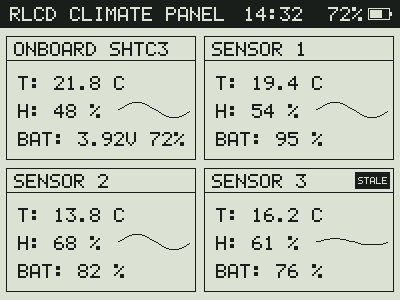
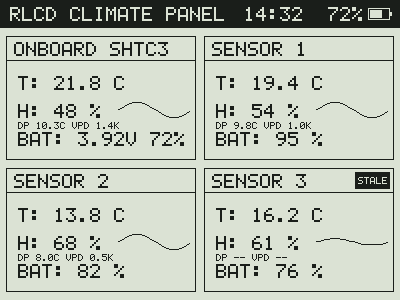
Add dew point and VPD line to climate tiles
Calculate the dew point with the Magnus formula and the vapor
pressure deficit in kPa. Show both values in each of the 4 tiles.
Show "DP -- VPD --" for stale, invalid and NaN readings.

diff --git a/tests/test_firmware_logic.cpp b/tests/test_firmware_logic.cpp
@@ -15,6 +15,7 @@
 #include "../rlcd_panel/bthome_ble.h"
 #include "../rlcd_panel/button_handler.h"
 #include "../rlcd_panel/clap_detector.h"
+#include "../rlcd_panel/climate_math.h"
 #include "../rlcd_panel/dashboard_view.h"
 #include "../rlcd_panel/device_config.h"
 #include "../rlcd_panel/es7210_mic.h"
@@ -627,6 +628,150 @@ void testSwitchBotStaleDetection() {
   assert(!empty.isStale(0xFFFFFFFFu));
 }
 
+void testClimateMathReferencePoints() {
+  const ClimateDerived ref = ClimateMath::compute(20.0f, 50.0f);
+  assert(ref.valid);
+  assert(approxEqual(ref.dew_point_c, 9.3f, 0.1f));
+  assert(approxEqual(ref.vpd_kpa, 1.17f, 0.01f));
+
+  // 100 %RH: dew point equals the temperature, no deficit
+  const ClimateDerived sat = ClimateMath::compute(20.0f, 100.0f);
+  assert(sat.valid);
+  assert(approxEqual(sat.dew_point_c, 20.0f, 0.05f));
+  assert(approxEqual(sat.vpd_kpa, 0.0f, 0.001f));
+
+  // 0 %RH: the dew point does not exist
+  assert(!ClimateMath::compute(20.0f, 0.0f).valid);
+
+  const ClimateDerived cold = ClimateMath::compute(-10.0f, 50.0f);
+  assert(cold.valid);
+  assert(approxEqual(cold.dew_point_c, -18.5f, 0.2f));
+  assert(approxEqual(cold.vpd_kpa, 0.14f, 0.01f));
+  const ClimateDerived colder = ClimateMath::compute(-20.0f, 50.0f);
+  assert(colder.valid);
+  assert(approxEqual(colder.dew_point_c, -27.8f, 0.2f));
+  assert(approxEqual(colder.vpd_kpa, 0.063f, 0.005f));
+  assert(colder.dew_point_c < -20.0f);
+
+  // The dew point never exceeds the temperature
+  assert(ClimateMath::compute(30.0f, 80.0f).dew_point_c < 30.0f);
+}
+
+void testClimateMathInvalidInput() {
+  const float nan_v = NAN;
+  assert(!ClimateMath::compute(nan_v, 50.0f).valid);
+  assert(!ClimateMath::compute(20.0f, nan_v).valid);
+  assert(!ClimateMath::compute(INFINITY, 50.0f).valid);
+  assert(!ClimateMath::compute(20.0f, 100.1f).valid);
+  assert(!ClimateMath::compute(20.0f, -1.0f).valid);
+  assert(!ClimateMath::compute(-60.0f, 50.0f).valid);
+  assert(!ClimateMath::compute(80.0f, 50.0f).valid);
+
+  char buf[ClimateMath::LINE_MAX_CHARS + 1];
+  ClimateMath::format(buf, sizeof(buf), true, 20.0f, 50.0f);
+  assert(strcmp(buf, "DP 9.3C VPD 1.2K") == 0);
+  ClimateMath::format(buf, sizeof(buf), false, 20.0f, 50.0f); // invalid or stale
+  assert(strcmp(buf, "DP -- VPD --") == 0);
+  ClimateMath::format(buf, sizeof(buf), true, nan_v, 50.0f);
+  assert(strcmp(buf, "DP -- VPD --") == 0);
+  ClimateMath::format(buf, sizeof(buf), true, -45.0f, 100.0f); // longest text
+  assert(strlen(buf) <= ClimateMath::LINE_MAX_CHARS);
+  ClimateMath::format(nullptr, 0, true, 20.0f, 50.0f); // no crash
+}
+
+void testDashboardClimateLine() {
+  Shtc3Reading onboard;
+  onboard.valid = true;
+  onboard.temperature_c = 20.0f;
+  onboard.humidity_pct = 50.0f;
+  BatteryReading battery;
+  battery.valid = true;
+  battery.voltage_v = 3.85f;
+  battery.percentage = 65;
+  const uint32_t now_ms = 100000;
+  SwitchBotReading slots[MAX_SWITCHBOT_SENSORS];
+  for (size_t i = 0; i < MAX_SWITCHBOT_SENSORS; ++i) {
+    slots[i].valid = true;
+    slots[i].temperature_c = 20.0f;
+    slots[i].humidity_pct = 50;
+    slots[i].battery_pct = 90;
+    slots[i].updated_ms = now_ms;
+  }
+  ClimateHistory history;
+  for (size_t s = 0; s < ClimateHistory::SLOT_COUNT; ++s) {
+    for (int h = 0; h < 24; ++h) {
+      history.slots[s].pushPercent(40.0f + static_cast<float>(h));
+    }
+  }
+
+  St7305Framebuffer fb;
+  DashboardView::render(fb, onboard, battery, slots, MAX_SWITCHBOT_SENSORS, nullptr, now_ms, &history);
+
+  const uint16_t tile_x[4] = {6, 204, 6, 204};
+  const uint16_t tile_y[4] = {36, 36, 168, 168};
+  const uint16_t line_h = 7;
+  for (size_t t = 0; t < 4; ++t) {
+    const uint16_t ly = tile_y[t] + DashboardView::CLIMATE_LINE_Y_OFFSET;
+    // The line sits below the sparkline box and above the battery line, inside the tile
+    assert(ly >= tile_y[t] + DashboardView::SPARKLINE_Y_OFFSET + DashboardView::SPARKLINE_H);
+    assert(ly + line_h <= tile_y[t] + 96);
+    size_t set = 0;
+    for (uint16_t y = ly; y < ly + line_h; ++y) {
+      for (uint16_t x = tile_x[t] + 1; x < tile_x[t] + 189; ++x) {
+        if (fb.getPixel(x, y)) {
+          ++set;
+          // The text starts at x + 12 and ends within the tile border
+          assert(x >= tile_x[t] + 12);
+        }
+      }
+    }
+    assert(set > 0);
+    // The border column stays clear of text
+    for (uint16_t y = ly; y < ly + line_h; ++y) {
+      assert(fb.getPixel(tile_x[t] + 189, y)); // right border is a line, not text overflow
+    }
+  }
+
+  // The text matches the helper: a render with the line text drawn alone gives the same pixels
+  St7305Framebuffer ref;
+  ref.clear(false);
+  char line[ClimateMath::LINE_MAX_CHARS + 1];
+  ClimateMath::format(line, sizeof(line), true, 20.0f, 50.0f);
+  ref.drawText(6 + 12, 36 + DashboardView::CLIMATE_LINE_Y_OFFSET, line, 1, true);
+  for (uint16_t y = 0; y < line_h; ++y) {
+    for (uint16_t x = 0; x < 120; ++x) {
+      assert(
+          fb.getPixel(18 + x, 36 + DashboardView::CLIMATE_LINE_Y_OFFSET + y) ==
+          ref.getPixel(18 + x, 36 + DashboardView::CLIMATE_LINE_Y_OFFSET + y));
+    }
+  }
+
+  // Stale sensor 1 and NaN humidity on sensor 2 show "DP -- VPD --"; the onboard tile is unchanged
+  slots[0].updated_ms = now_ms - SENSOR_STALE_TIMEOUT_MS - 1;
+  St7305Framebuffer dash;
+  DashboardView::render(dash, onboard, battery, slots, MAX_SWITCHBOT_SENSORS, nullptr, now_ms, &history);
+  St7305Framebuffer dashes;
+  dashes.clear(false);
+  dashes.drawText(204 + 12, 36 + DashboardView::CLIMATE_LINE_Y_OFFSET, "DP -- VPD --", 1, true);
+  for (uint16_t y = 0; y < line_h; ++y) {
+    for (uint16_t x = 0; x < 100; ++x) {
+      const uint16_t py = 36 + DashboardView::CLIMATE_LINE_Y_OFFSET + y;
+      assert(dash.getPixel(216 + x, py) == dashes.getPixel(216 + x, py));
+      assert(dash.getPixel(18 + x, py) == fb.getPixel(18 + x, py));
+    }
+  }
+
+  // An invalid tile ("NO SIGNAL") shows the dashes, too
+  St7305Framebuffer none;
+  DashboardView::render(none, onboard, battery, nullptr, 0, nullptr, now_ms);
+  for (uint16_t y = 0; y < line_h; ++y) {
+    for (uint16_t x = 0; x < 100; ++x) {
+      const uint16_t py = 36 + DashboardView::CLIMATE_LINE_Y_OFFSET + y;
+      assert(none.getPixel(216 + x, py) == dashes.getPixel(216 + x, py));
+    }
+  }
+}
+
 void testDashboardStaleIndicator() {
   Shtc3Reading onboard;
   onboard.valid = true;
@@ -681,12 +826,15 @@ void testDashboardStaleIndicator() {
   assert(diffInRect(204, 36 + 132, 190, 124) == 0);
   assert(diffInRect(0, 0, 400, 28) == 0);
 
-  // The stale indicator stays inside the tile border, in the title band above the divider line
+  // The stale indicator stays inside the tile border, in the title band above the divider line.
+  // The dew point line below the sparkline also changes ("DP --" for stale data).
+  const uint16_t dp_y0 = 168 + DashboardView::CLIMATE_LINE_Y_OFFSET;
   size_t outside = 0;
   for (uint16_t y = 0; y < 300; ++y) {
     for (uint16_t x = 0; x < 400; ++x) {
       if (fresh.getPixel(x, y) != mixed.getPixel(x, y) &&
-          (x <= 6 || x >= 195 || y <= 168 || y >= 168 + 24)) {
+          (x <= 6 || x >= 195 || y <= 168 || y >= 168 + 24) &&
+          !(y >= dp_y0 && y < dp_y0 + 7U && x > 6 && x < 195)) {
         ++outside;
       }
     }
@@ -6301,6 +6449,9 @@ int main() {
   testBtHomeInvalidPackets();
   testBtHomeUnknownObjectIds();
   testBtHomeCombinedRegistry();
+  testClimateMathReferencePoints();
+  testClimateMathInvalidInput();
+  testDashboardClimateLine();
   testDashboardStaleIndicator();
   testButtonDebounceAndModeTransitions();
   testDisplayModesRenderWithoutClipping();
@@ -6444,6 +6595,6 @@ int main() {
   testSerialListAndInfo();
   testSerialRejectKeepsCardUnmounted();
   testSerialConsoleUsbGate();
-  printf("All 120 firmware logic test suites passed.\n");
+  printf("All 123 firmware logic test suites passed.\n");
   return 0;
 }

diff --git a/rlcd_panel/climate_math.h b/rlcd_panel/climate_math.h
@@ -1,0 +1,62 @@
+#pragma once
+
+#include <math.h>
+#include <stdio.h>
+#include <stddef.h>
+
+namespace rlcd_panel {
+
+// Dew point (Magnus formula) and vapor pressure deficit from temperature and relative humidity.
+struct ClimateDerived {
+  bool valid = false;
+  float dew_point_c = 0.0f;
+  float vpd_kpa = 0.0f;
+};
+
+class ClimateMath {
+public:
+  static constexpr float MAGNUS_A = 17.62f;
+  static constexpr float MAGNUS_B_C = 243.12f;
+  static constexpr float SATURATION_PRESSURE_KPA_AT_0C = 0.61078f;
+  // Sensor range: below -45 C the Magnus formula leaves its fitted range.
+  static constexpr float MIN_TEMP_C = -45.0f;
+  static constexpr float MAX_TEMP_C = 60.0f;
+  // Longest text from format(): "DP -45.0C VPD 9.99K" is 19 glyphs.
+  static constexpr size_t LINE_MAX_CHARS = 20;
+
+  // Saturation vapor pressure in kPa.
+  static float saturationPressureKpa(float temp_c) {
+    return SATURATION_PRESSURE_KPA_AT_0C * expf((MAGNUS_A * temp_c) / (temp_c + MAGNUS_B_C));
+  }
+
+  // Returns an invalid result for NaN, infinite or out-of-range input. 0 %RH gives no dew point
+  // (the logarithm diverges), so it is invalid as well.
+  static ClimateDerived compute(float temp_c, float humidity_pct) {
+    ClimateDerived out;
+    if (!isfinite(temp_c) || !isfinite(humidity_pct) || temp_c < MIN_TEMP_C ||
+        temp_c > MAX_TEMP_C || humidity_pct <= 0.0f || humidity_pct > 100.0f) {
+      return out;
+    }
+    const float gamma = logf(humidity_pct / 100.0f) + (MAGNUS_A * temp_c) / (MAGNUS_B_C + temp_c);
+    out.dew_point_c = (MAGNUS_B_C * gamma) / (MAGNUS_A - gamma);
+    out.vpd_kpa = saturationPressureKpa(temp_c) * (1.0f - humidity_pct / 100.0f);
+    out.valid = isfinite(out.dew_point_c) && isfinite(out.vpd_kpa);
+    return out;
+  }
+
+  // Formats "DP 9.3C VPD 1.2K" (VPD in kPa, one digit), or "DP -- VPD --" when not valid.
+  static void format(char* buf, size_t size, bool usable, float temp_c, float humidity_pct) {
+    if (buf == nullptr || size == 0) {
+      return;
+    }
+    const ClimateDerived d = usable ? compute(temp_c, humidity_pct) : ClimateDerived{};
+    if (!d.valid) {
+      snprintf(buf, size, "DP -- VPD --");
+      return;
+    }
+    snprintf(buf, size, "DP %.1fC VPD %.1fK", static_cast<double>(d.dew_point_c),
+             static_cast<double>(d.vpd_kpa));
+  }
+};
+
+} // namespace rlcd_panel

diff --git a/rlcd_panel/dashboard_view.h b/rlcd_panel/dashboard_view.h
@@ -8,6 +8,7 @@
 #include "audio_spectrum.h"
 #include "board_pins.h"
 #include "button_handler.h"
+#include "climate_math.h"
 #include "es7210_mic.h"
 #include "shtc3_sensor.h"
 #include "sparkline.h"
@@ -55,6 +56,10 @@ public:
   static constexpr uint16_t SPARKLINE_H = 16;
   static constexpr uint16_t SPARKLINE_RIGHT_MARGIN = 6;
   static constexpr uint16_t SPARKLINE_Y_OFFSET = 66;
+  // Dew point and VPD line (scale 1, 7 px high) between the sparkline box (ends at y + 82) and the
+  // battery line (starts at y + 96). The widest text has 19 glyphs = 113 px, inside the 190 px tile.
+  static constexpr uint16_t CLIMATE_LINE_Y_OFFSET = 86;
+  static constexpr uint16_t CLIMATE_LINE_H = 7;
   // Sensor stats: noise trend line "NOISE 140-140 DB" (16 glyphs, 192 px) and its curve box right of
   // it, above the "ONBOARD BAT" line at y = 270.
   static constexpr uint16_t NOISE_TREND_Y = 248;
@@ -98,6 +103,18 @@ public:
     }
   }
 
+  // Dew point and VPD line; shows "DP -- VPD --" for a stale, invalid or NaN reading.
+  static void renderClimateLine(
+      St7305Framebuffer& fb, uint16_t x, uint16_t y, uint16_t h, bool usable, float temp_c,
+      float humidity_pct) {
+    if (h <= CLIMATE_LINE_Y_OFFSET + CLIMATE_LINE_H) {
+      return;
+    }
+    char line[ClimateMath::LINE_MAX_CHARS + 1];
+    ClimateMath::format(line, sizeof(line), usable, temp_c, humidity_pct);
+    fb.drawText(x + 12, y + CLIMATE_LINE_Y_OFFSET, line, 1, true);
+  }
+
   static void renderTile(
       St7305Framebuffer& fb,
       uint16_t x,
@@ -118,6 +135,7 @@ public:
 
     if (!valid) {
       fb.drawText(x + 12, y + 56, "NO SIGNAL", 2, true);
+      renderClimateLine(fb, x, y, h, false, 0.0f, 0.0f);
       return;
     }
 
@@ -128,6 +146,8 @@ public:
     char line_rh[24];
     snprintf(line_rh, sizeof(line_rh), "H: %.0f %%", humidity_pct);
     fb.drawText(x + 12, y + 68, line_rh, 2, true);
+
+    renderClimateLine(fb, x, y, h, !is_stale, temp_c, humidity_pct);
 
     // A curve needs two samples. One sample would draw a single dot.
     if (history != nullptr && history->size() >= 2 && w > SPARKLINE_W + SPARKLINE_RIGHT_MARGIN &&

diff --git a/FEATURES.md b/FEATURES.md
@@ -295,3 +295,12 @@ This file describes finished work for `rlcd-panel`. Open work is in `ROADMAP.md`
 - The audio byte in RTC memory is now: bit 0 muted, bits 1 to 4 alert mask, bits 5 and 6 noise band. The state version is 12. The old format gives a clean start. Bit 7 stays reserved. A set bit 7 is rejected, even with a valid CRC.
 - Limit: a sensor that is removed for good keeps its slot, so the bit stays on until a power-on clears the RTC state. The chime does not repeat in this time.
 - Host tests cover the change from fresh to stale (also at the exact timeout and over the clock wrap), a slot that was never valid, the recovery of one and of each slot, the mute and quiet hours suppression, the 440 Hz pattern and its playback, and the RTC round trip with the audio byte encoding.
+
+## Dew point and VPD line in the climate tiles
+
+- **Code:** `rlcd_panel/climate_math.h`, `rlcd_panel/dashboard_view.h`, `tests/test_firmware_logic.cpp`.
+- `ClimateMath::compute` calculates the dew point with the Magnus formula (`a = 17.62`, `b = 243.12 C`). It calculates the vapor pressure deficit (VPD) in kPa as `0.61078 * exp(a * T / (T + b)) * (1 - RH / 100)`. At 20.0 C and 50 %RH the result is 9.3 C and 1.17 kPa.
+- The result is invalid for NaN, infinite and out-of-range input (temperature outside -45 C to 60 C, humidity at or below 0 %RH or above 100 %RH). At 0 %RH the dew point does not exist.
+- Each of the 4 tiles shows one scale-1 line, for example `DP 9.3C VPD 1.2K` (`K` is kPa). The line sits at `y + 86`, between the sparkline box and the battery line, and ends inside the 190 px tile. A stale or invalid tile shows `DP -- VPD --`.
+- The values are calculated for each render. No RTC state changes and the state version stays the same.
+- Host tests cover the reference point, 0 and 100 %RH, -10 C and -20 C, NaN, infinite and out-of-range input, the text format, the line position in all 4 tiles, and the dashes for a stale and a missing sensor.

diff --git a/ROADMAP.md b/ROADMAP.md
@@ -18,12 +18,6 @@ Do the work in priority order, unless the maintainer gives a different order.
 
 ## Priority 1: Core Tooling and Calibration (Score 34–40)
 
-- [ ] Dew point and VPD line in the climate tiles
-  - Rank: [Total: 35, Use: 9, Setup: 7, Harmony: 9, Safety: 10, Effort: S]
-  - Location: new `rlcd_panel/climate_math.h`, `rlcd_panel/dashboard_view.h`, `tools/preview_scenes.h`, `tests/test_firmware_logic.cpp`.
-  - Goal: Show the dew point and the vapor pressure deficit (VPD) in each of the 4 tiles. Calculate the dew point with the Magnus formula (`a = 17.62`, `b = 243.12 C`). Calculate the VPD in kPa from the saturation vapor pressure and the relative humidity. Use the onboard `SHTC3`, SwitchBot and BTHome readings. Show `DP --` and `VPD --` for an invalid, stale or NaN reading. Keep the new line inside the 190 px tile and clear of the sparkline box. Do not change the RTC state.
-  - Acceptance test: Host tests cover reference points (20.0 C at 50 %RH gives a dew point of 9.3 C ±0.1 C and a VPD of 1.17 kPa ±0.01 kPa), 0 %RH, 100 %RH, negative temperatures, NaN and stale input, and the tile bounds. The regenerated `docs/display_preview.png` shows the line in all 4 tiles without clipping.
-
 - [ ] Deep sleep protection for an empty battery
   - Rank: [Total: 34, Use: 8, Setup: 7, Harmony: 9, Safety: 10, Effort: M]
   - Location: `rlcd_panel/battery_monitor.h`, `rlcd_panel/power_manager.h`, `rlcd_panel/dashboard_view.h`, `rlcd_panel/rlcd_panel.ino`, `tools/preview_scenes.h`.
